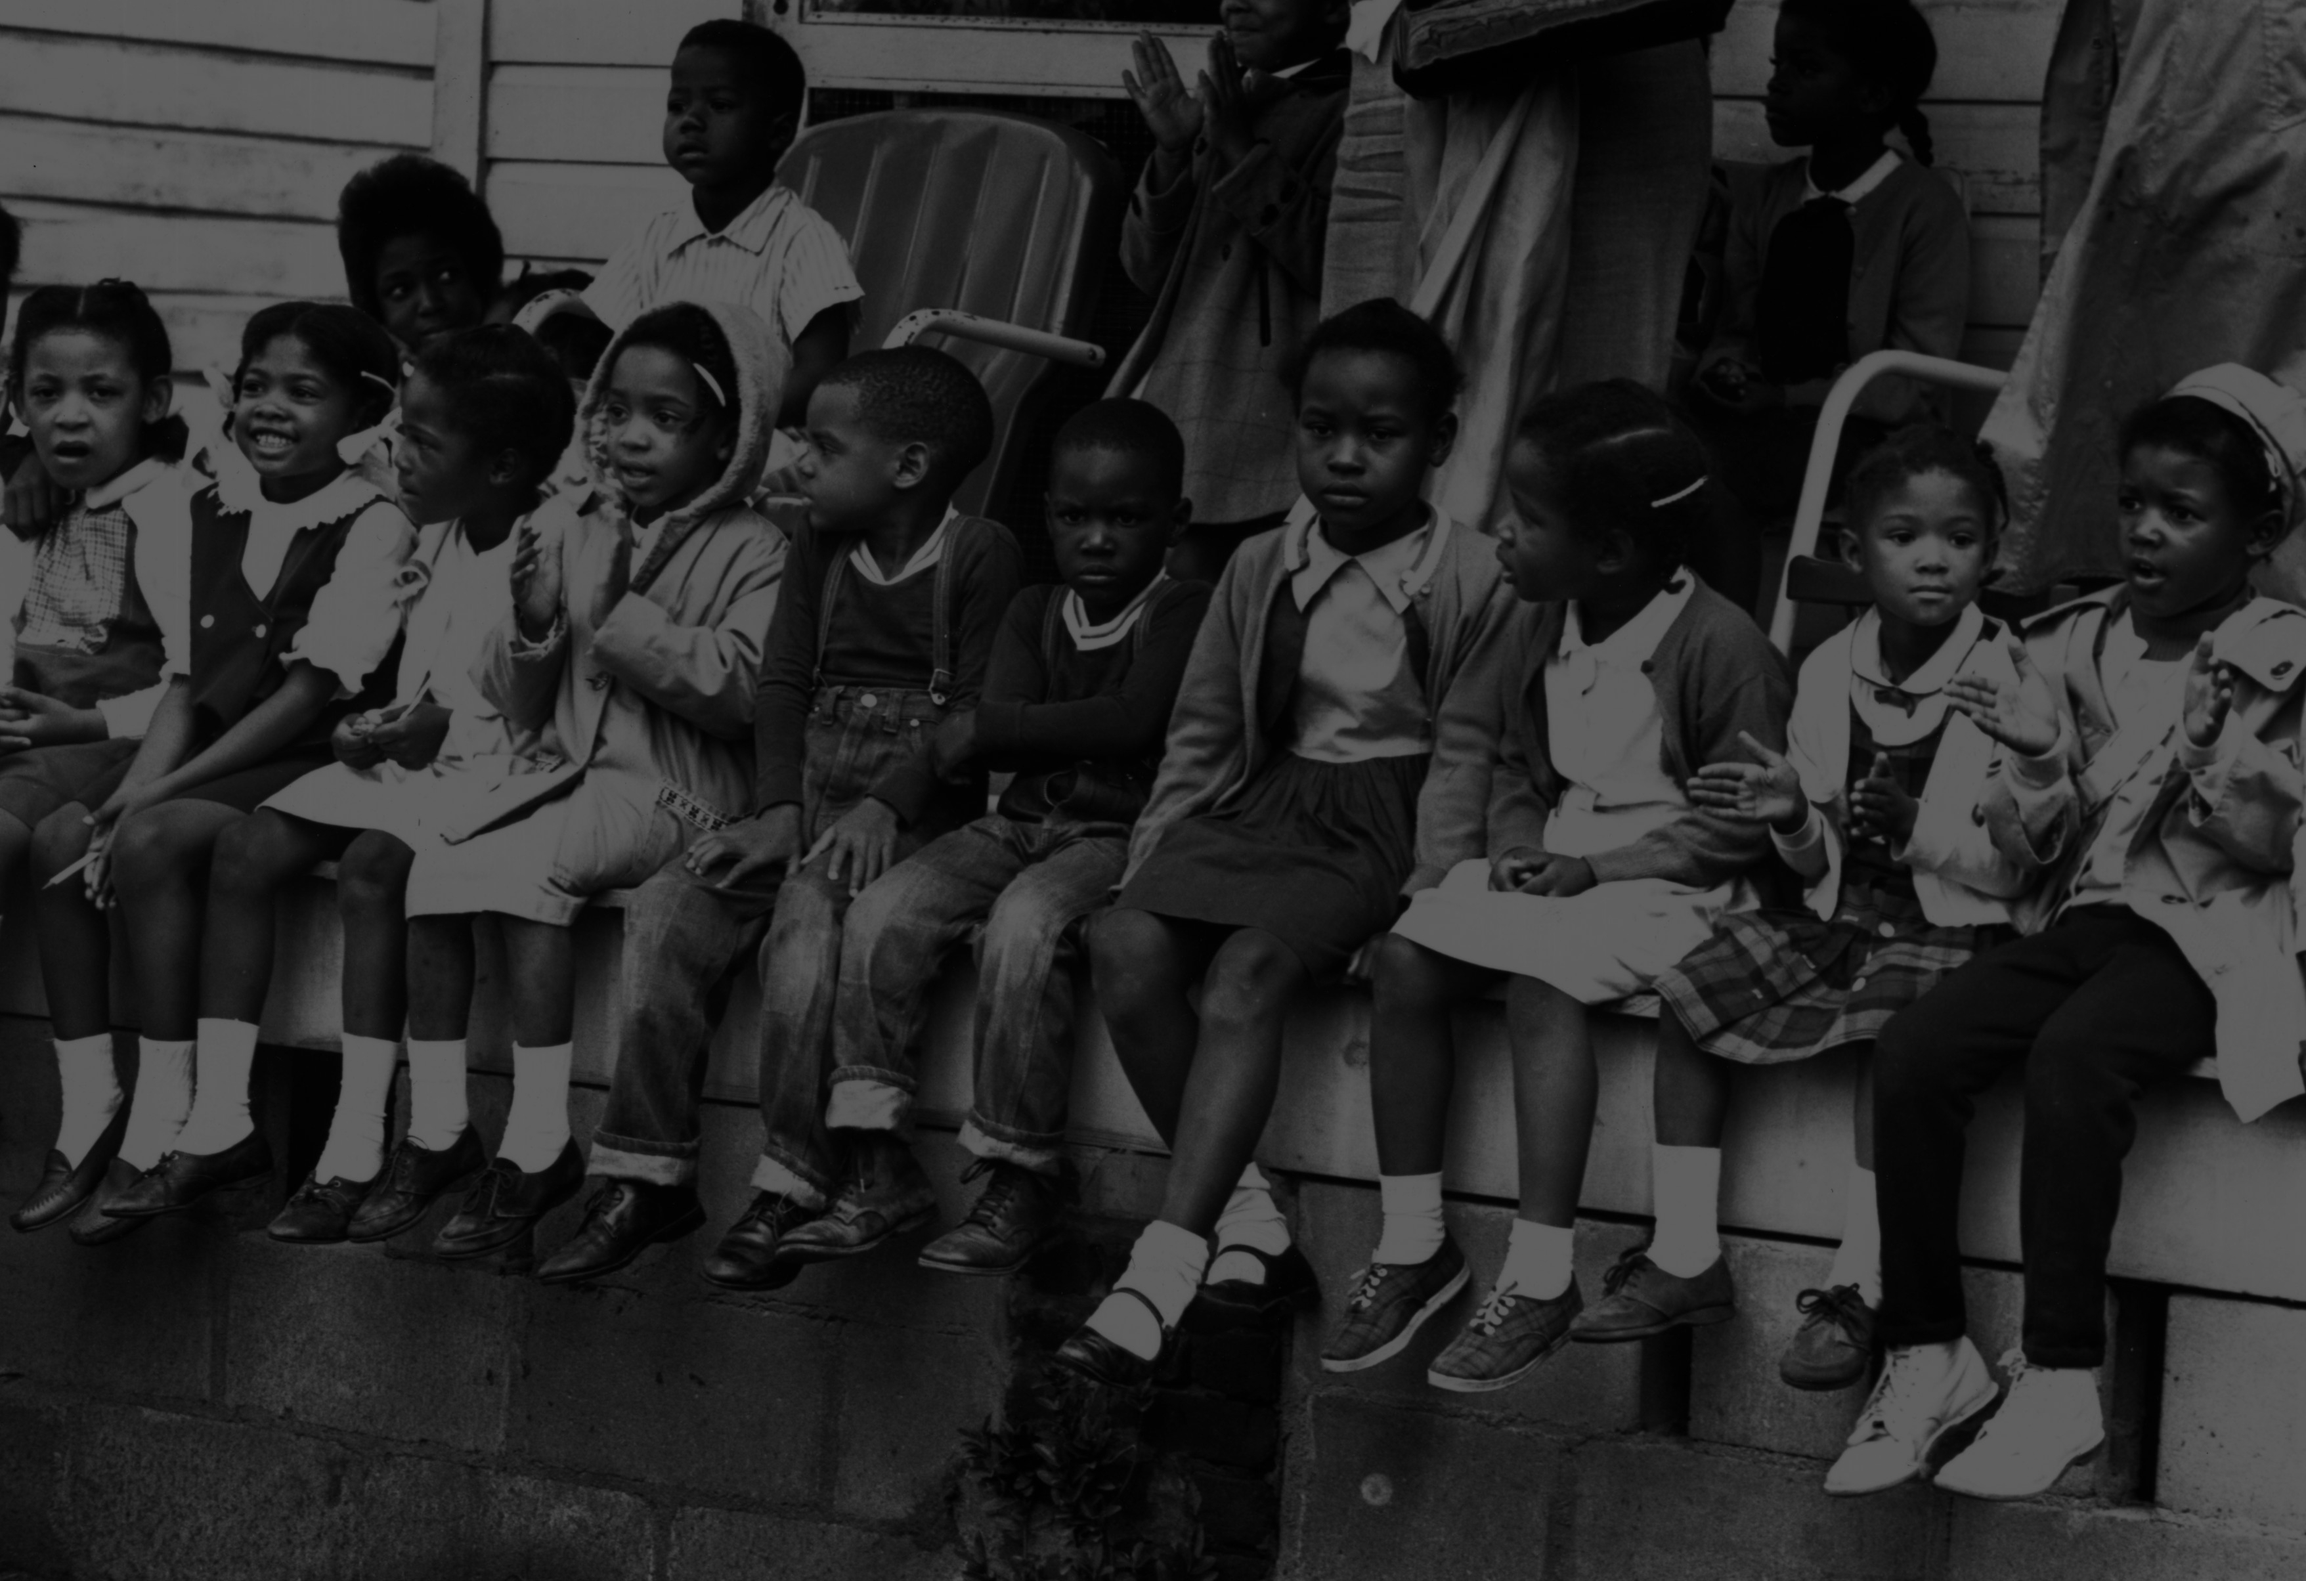
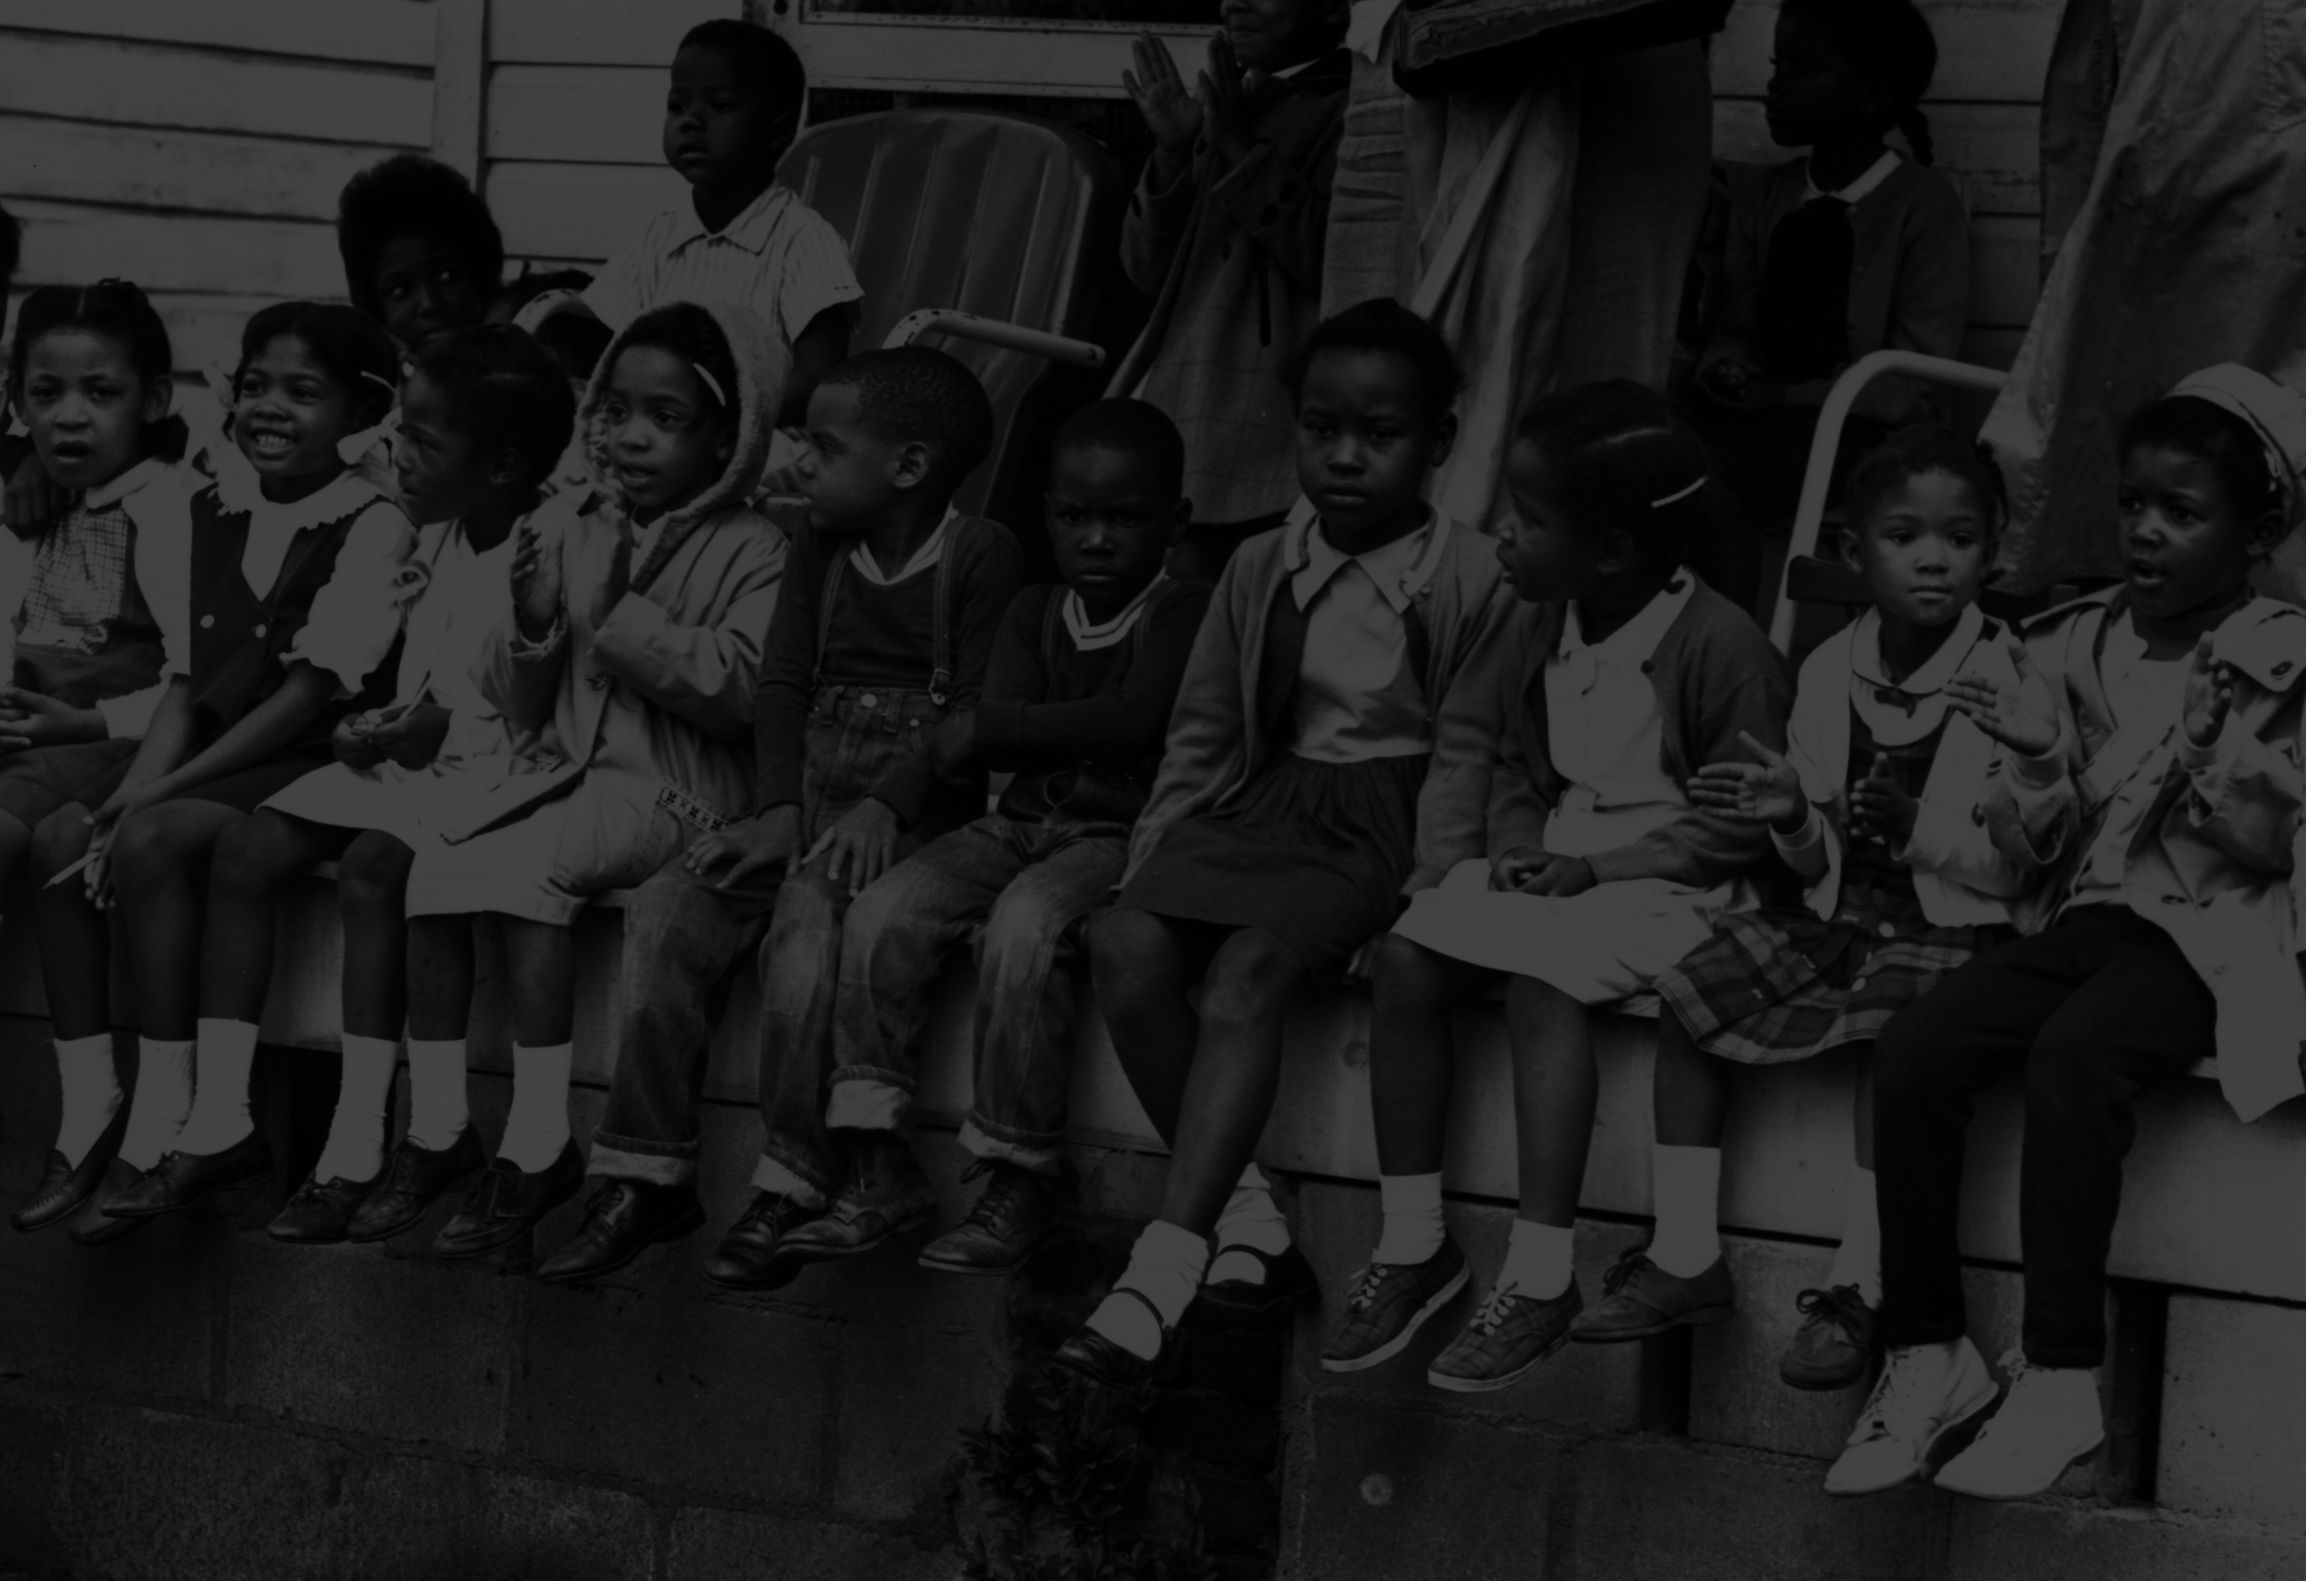
home-done kontakty-done

diff --git a/css/custom.css b/css/custom.css
@@ -28,7 +28,7 @@ body {
         border-top-right-radius: 50px;
 }
 .middle .middle-down{
-    background: url("../datagrid/img/core-pozadi.jpg");
+    background: url("../datagrid/img/core-pozadi-s.jpg");
     background-size: 100%;
     height: 200px;
     border-top-left-radius: 50px;
@@ -115,4 +115,68 @@ a li:hover {
     float: right;
     margin-left: 100px;
     color: rgb(130,130,130);
+}
+.left-contact{
+    height: 400px;
+    border-radius: 80%;
+    background: url("../datagrid/img/týpek-1-t.jpg");
+    background-size: 100% 100%;
+    margin-top: 50px;
+    padding-left: 2%;
+    padding-right: 2%;
+    text-align: center;
+    transition: all .2s ease-in-out; 
+    color: rgba(200,200,200,1);
+    transform: scale(0.8);
+}
+.left-contact:hover { 
+    transform: scale(1);
+    color: rgba(0,0,0,0);
+    background: url("../datagrid/img/týpek-1.jpg");
+    background-size: 100% 100%;
+}
+.mid-contact{
+    height: 400px;
+    background: url("../datagrid/img/žena-t.jpg");
+    background-size: 100% 100%;
+    border-radius: 80%;
+    margin-top: 50px;
+    padding-left: 2%;
+    padding-right: 2%;
+    text-align: center;
+    transition: all .2s ease-in-out; 
+    color: rgba(200,200,200,1);
+    transform: scale(0.8);
+}
+.mid-contact:hover { 
+    transform: scale(1);
+    color: rgba(0,0,0,0);
+    background: url("../datagrid/img/žena.jpg");
+    background-size: 100% 100%;
+}
+.right-contact{
+    height: 400px;
+    background: url("../datagrid/img/týpek-t.jpg");
+    background-size: 100% 100%;
+    border-radius: 80%;
+    margin-top: 50px;
+    padding-left: 2%;
+    padding-right: 2%;
+    text-align: center;
+    transition: all .2s ease-in-out; 
+    color: rgba(200,200,200,1);
+    transform: scale(0.8);
+}
+.right-contact:hover { 
+    transform: scale(1);
+    color: rgba(0,0,0,0);
+    background: url("../datagrid/img/týpek.jpg");
+    background-size: 100% 100%;
+}
+.vyrovnavac{
+    height: 100px;
+}
+.text-lide{
+    font-size: 25px;
+    margin-top: 100px;
 }

diff --git a/pages/contact_us.php b/pages/contact_us.php
@@ -1,13 +1,35 @@
 <head>
         <title>Charita</title>
-               <meta charset="utf-8">
-    <meta name="viewport" content="width=device-width, initial-scale=1, shrink-to-fit=no">
-    <meta http-equiv="x-ua-compatible" content="ie=edge">
+            <meta charset="utf-8">
+            <meta name="viewport" content="width=device-width, initial-scale=1, shrink-to-fit=no">
+            <meta http-equiv="x-ua-compatible" content="ie=edge">
     <link rel="stylesheet" href="../css/bootstrap/css/bootstrap.css"> 
     <link rel="stylesheet" href="../css/bootstrap/css/bootstrap-theme.min.css">
     <link rel="stylesheet" href="../css/custom.css"
-     <link rel="stylesheet" href="../source/font-awesome/css/font-awesome.min.css">
-     <link rel="stylesheet" href="../source/font-awesome/css/font-awesome.css">
+    <link rel="stylesheet" href="../css/media.css"
+    <link rel="stylesheet" href="../source/font-awesome/css/font-awesome.min.css">
+    <link rel="stylesheet" href="../source/font-awesome/css/font-awesome.css">
     </head>
  <?php require "logo.php"; ?>
  <?php require "nav.php"; ?>
+    <div class="col-md-4 vyrovnavac"></div>
+    <div class="lide">
+         <div class="left-contact col-xs-11 col-sm-12  col-md-4">
+             <p class="text-lide">  Petr Nový<br>
+             Hlavní ředitel<br>
+             +420 <?php echo rand(100,999) . "\n";echo rand(100,999) . "\n";echo rand(100,999);?><br>
+            </p>         
+         </div>
+         <div class="mid-contact col-xs-11 col-sm-12 col-md-4">
+             <p class="text-lide">  Jana Prášilová<br>
+             Hlavní vedoucí<br>
+             +420 <?php echo rand(100,999) . "\n";echo rand(100,999) . "\n";echo rand(100,999);?><br>
+             </p>
+        </div>
+        <div class="right-contact col-xs-11 col-sm-12 col-md-4 ">
+            <p class="text-lide">  Petr Pravý<br>
+             Vedoucí projekru<br>
+             +420 <?php echo rand(100,999) . "\n";echo rand(100,999) . "\n";echo rand(100,999);?><br>
+            </p> 
+        </div>    
+    </div>

diff --git a/pages/logo.php b/pages/logo.php
@@ -1,7 +1,7 @@
  <div class="header col-xs-12">
                     <div class="row">      
-                        <div class="header-box-img col-xs-7"></div>
-                        <div class="middle col-xs-4">
+                        <div class="header-box-img col-sm-7 col-xs-12"><h2 class="Naspis-phone hidden-lg-up">Charina na děti z Keni</h2> <small class="podtext-phone hidden-lg-up hidden-xs-down">pomocte těm co to potřebijí</small></div>
+                        <div class="middle col-xs-4 hidden-xs-down">
                           <div class="row">
                            <div class="middle-top col-xs-12"></div> 
                            <div class="middle-midle hidden-md-down offset-md-1 col-md-11"></div>
@@ -10,5 +10,4 @@
                          </div>
                       </div>
                      </div>    
-     
                 </div>
